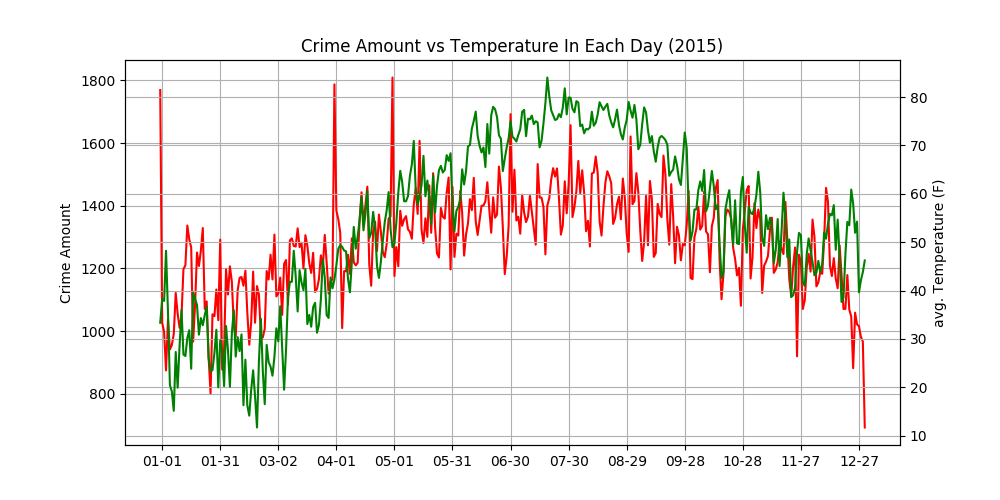
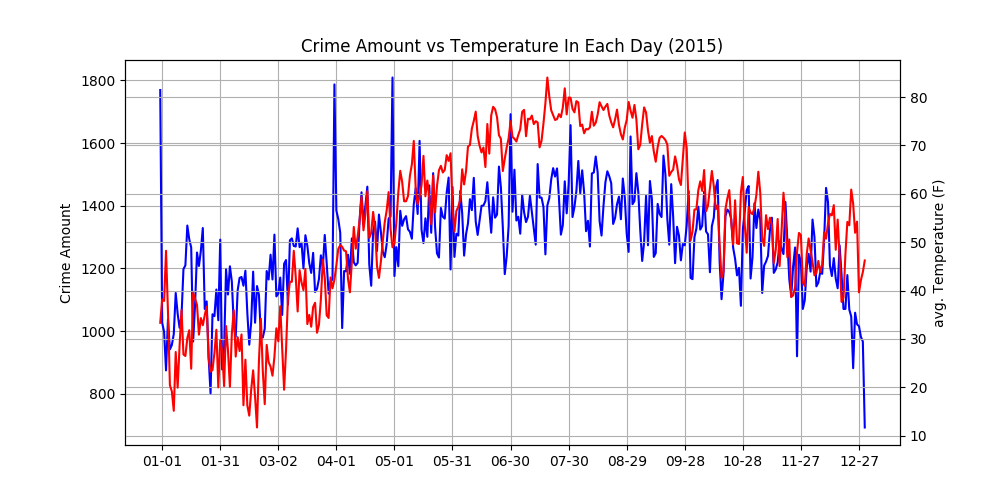
[plot] updated plots

Changed region(s): [[0.155, 0.15, 0.868, 0.84]]

diff --git a/plot/plot_windspeed_vs_crime_amount_2015.py b/plot/plot_windspeed_vs_crime_amount_2015.py
@@ -34,12 +34,12 @@ datemax = dt.date(2016, 1, 1)
 ax1.set_xlim(datemin, datemax)
 ax1.grid(True)
 ax1.set_ylabel('Crime Amount')
-ax1.plot(dates, crimes, 'r', label='crime amount')
+ax1.plot(dates, crimes, 'g', label='crime amount')
 
 ax2 = ax1.twinx()
 ax2.set_ylabel('avg. Wind Speed (kn)')
 ax2.grid(True)
-ax2.plot(dates, wind_speed, 'g', label='avg. wind speed')
+ax2.plot(dates, wind_speed, 'b', label='avg. wind speed')
 
 ax2.xaxis.set_ticks(np.arange(1, 366, 30.0))
 plt.title('Crime Amount vs Wind Speed In Each Day (2015)')

diff --git a/plot/plot_temperature_vs_crime_amount_2015.py b/plot/plot_temperature_vs_crime_amount_2015.py
@@ -39,12 +39,12 @@ ax1.set_ylabel('Crime Amount')
 plt.title('Crime Amount vs Temperature In Each Day (2015)')
 plt.axis('auto')
 plt.legend()
-ax1.plot(dates, crimes, 'r', label='Crime Amount')
+ax1.plot(dates, crimes, 'b', label='Crime Amount')
 
 ax2 = ax1.twinx()
 ax2.set_ylabel('avg. Temperature (F)')
 ax2.grid(True)
-ax2.plot(dates, temperature, 'g', label='Temperature')
+ax2.plot(dates, temperature, 'r', label='Temperature')
 
 plt.xlabel('Crime Date')
 # plt.show()
